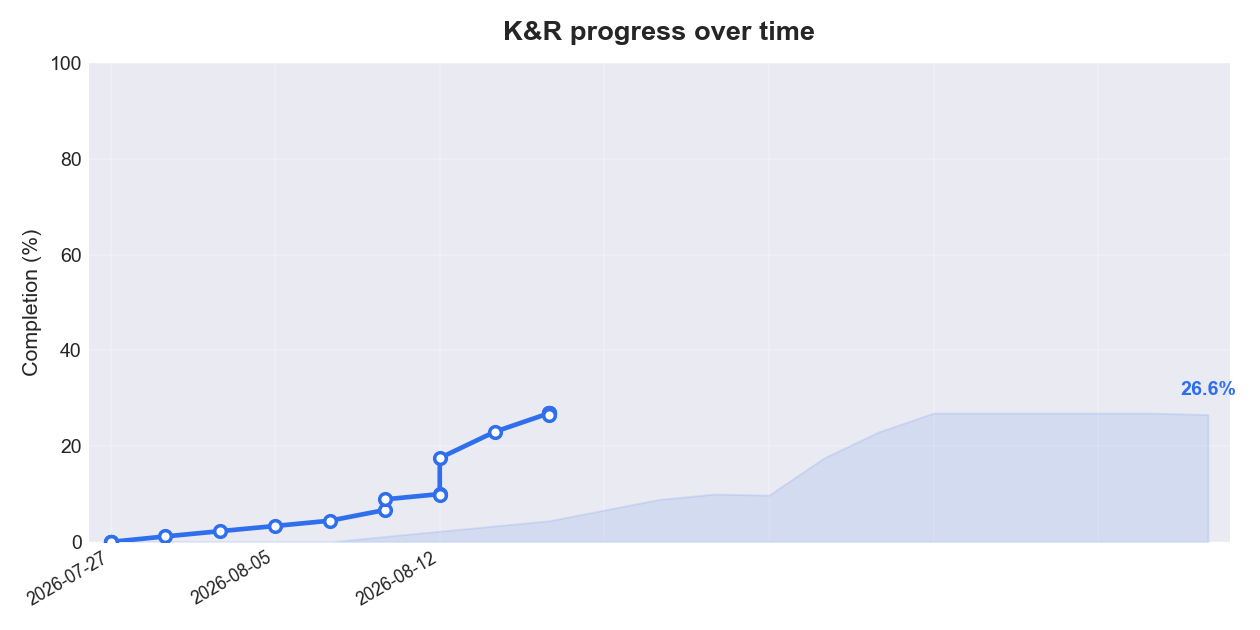
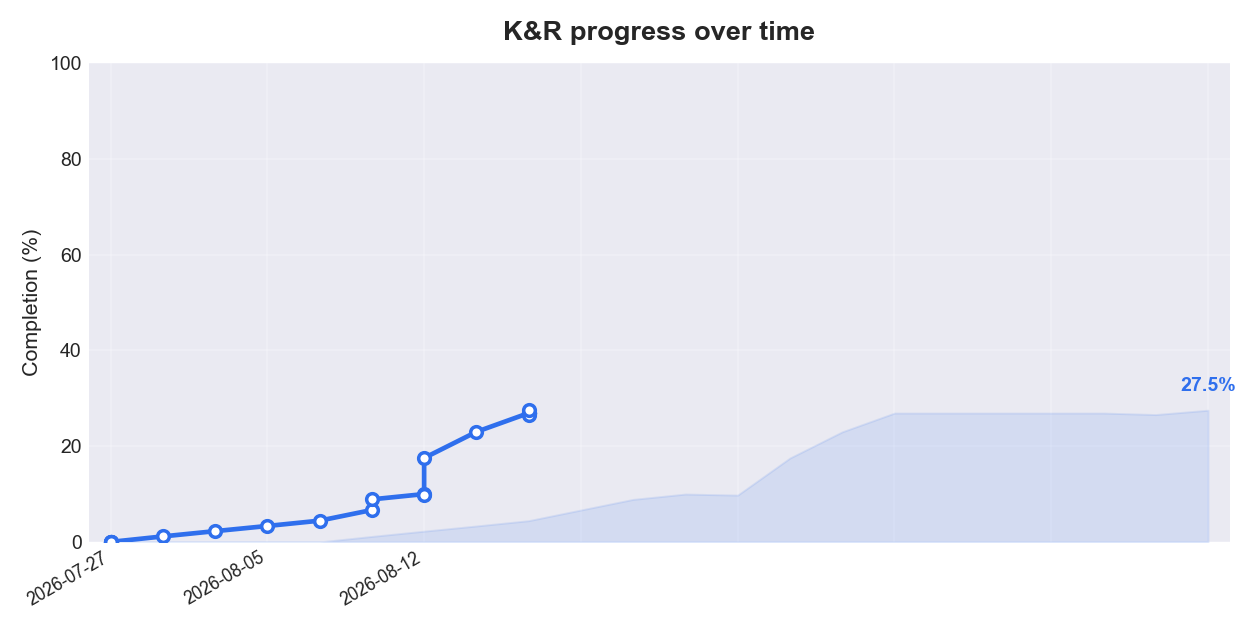
Add summary for chapter 1

diff --git a/ch01-tutorial-intro/summary-1.md b/ch01-tutorial-intro/summary-1.md
@@ -1,0 +1,70 @@
+# Chapter 1 Summary: A Tutorial Introduction
+
+## Big picture
+
+Chapter 1 is a fast walk through the core of C, building up from "hello,
+world" to functions, arrays, and scope, mostly by writing small text-handling
+programs. The point isn't to cover the language exhaustively (that's the rest
+of the book), it's to get enough of the basics in your hands that you can
+write real, useful programs. By the end of the chapter you've touched most of
+the pieces you need for everyday C: variables, loops, conditionals, arrays,
+functions, and the idea of where a variable lives and who can see it.
+
+## Main takeaways
+
+- C programs are built out of small functions, each doing one clear job, tied
+  together by a `main` that coordinates them. This shows up again and again:
+  `power`, `getline`, `copy`, and others all follow the same shape.
+- Character-based I/O (`getchar`/`putchar`) plus loops is the workhorse
+  pattern for processing text one character at a time, whether you're
+  counting lines, copying input, or building up a string.
+- Arrays and character arrays (strings) are just indexed, zero-based storage.
+  Strings specifically are `'\0'`-terminated character arrays, and every
+  string function in the chapter (`getline`, `copy`) leans on that
+  convention.
+- Functions communicate either through arguments and return values, or
+  through external variables. Argument passing keeps functions general and
+  reusable; external variables are convenient but can make a program's data
+  flow hard to follow. Prefer arguments unless there's a good reason not to.
+- Automatic (local) variables are private to their function and don't
+  survive between calls. External variables persist for the whole program
+  and are visible to any function that declares them.
+
+## Key tools and syntax introduced
+
+- `for`, `while`, and the general shape of loops in C, including the
+  comma operator and multiple initializations/increments in a `for`.
+- `if` / `else if` / `else` chains for multi-way decisions.
+- `#define` for symbolic constants.
+- Arrays: declaration, zero-based indexing, and character arrays as strings.
+- Functions: declarations (prototypes), definitions, parameters, `return`,
+  and the `void` return type for functions that return nothing.
+- Call by value: arguments are copied into a function, so a function can't
+  change the caller's variable directly (this becomes important again once
+  pointers show up in Chapter 5).
+- `extern`, and the distinction between defining a variable (allocating
+  storage) and declaring one (stating its type without allocating anything).
+- Character arithmetic, like `c - '0'` to convert a digit character to its
+  numeric value.
+
+## How it connects to earlier chapters
+
+This is the first chapter, so there's no earlier material, but it sets the
+foundation for everything after it. Chapter 2 goes back and formalizes the
+types and operators used loosely here. Chapter 3 expands on control flow
+(`switch`, `do-while`, `break`/`continue`). Chapter 4 goes deeper into
+functions, external variables, and scope, the exact topics section 1.10
+opened the door on. Chapter 5 revisits call by value and shows how pointers
+let a function actually modify a caller's variable, which section 1.8
+explicitly said wasn't possible with plain arguments.
+
+## Things to remember
+
+- Split a program along its natural pieces: don't try to do everything in
+  `main`.
+- Strings are character arrays ending in `'\0'`, always.
+- Prefer passing data through arguments over reaching for external
+  variables. Externals are powerful, but that power comes at the cost of
+  readability and safety.
+- Local variables reset every call and start out as garbage if you don't set
+  them yourself.

diff --git a/TRACKER.md b/TRACKER.md
@@ -6,12 +6,12 @@ _Last updated: 2026-08-15_
 
 ## Overall
 
-**26.6% complete** `[######------------------]`
+**27.5% complete** `[#######-----------------]`
 
 | Metric | Done | Total |
 | --- | --- | --- |
 | Section notes | 10 | 77 |
-| Chapter summaries | 0 | 8 |
+| Chapter summaries | 1 | 8 |
 | Exercises solved | 19 | 24 |
 
 ## Progress over time
@@ -22,7 +22,7 @@ _Last updated: 2026-08-15_
 
 | Chapter | Notes | Summary | Exercises |
 | --- | :---: | :---: | :---: |
-| 1. A Tutorial Introduction | 10 / 10 | no | 19 / 24 |
+| 1. A Tutorial Introduction | 10 / 10 | yes | 19 / 24 |
 | 2. Types, Operators and Expressions | 0 / 12 | - | 0 / 0 |
 | 3. Control Flow | 0 / 8 | - | 0 / 0 |
 | 4. Functions and Program Structure | 0 / 11 | - | 0 / 0 |
@@ -39,16 +39,16 @@ _Last updated: 2026-08-15_
 
 | Section | Title | Notes | Summary | Exercises |
 | :---: | --- | :---: | :---: | :---: |
-| 1.1 | Getting Started | yes | no | 2 / 2 |
-| 1.2 | Variables and Arithmetic Expressions | yes | no | 2 / 2 |
-| 1.3 | The for statement | yes | no | 1 / 1 |
-| 1.4 | Symbolic Constants | yes | no | 0 / 0 |
-| 1.5 | Character Input and Output | yes | no | 7 / 7 |
-| 1.6 | Arrays | yes | no | 2 / 2 |
-| 1.7 | Functions | yes | no | 1 / 1 |
-| 1.8 | Arguments - Call by Value | yes | no | 0 / 0 |
-| 1.9 | Character Arrays | yes | no | 4 / 4 |
-| 1.10 | External Variables and Scope | yes | no | 0 / 5 |
+| 1.1 | Getting Started | yes | yes | 2 / 2 |
+| 1.2 | Variables and Arithmetic Expressions | yes | yes | 2 / 2 |
+| 1.3 | The for statement | yes | yes | 1 / 1 |
+| 1.4 | Symbolic Constants | yes | yes | 0 / 0 |
+| 1.5 | Character Input and Output | yes | yes | 7 / 7 |
+| 1.6 | Arrays | yes | yes | 2 / 2 |
+| 1.7 | Functions | yes | yes | 1 / 1 |
+| 1.8 | Arguments - Call by Value | yes | yes | 0 / 0 |
+| 1.9 | Character Arrays | yes | yes | 4 / 4 |
+| 1.10 | External Variables and Scope | yes | yes | 0 / 5 |
 
 ### Chapter 2 - Types, Operators and Expressions
 
